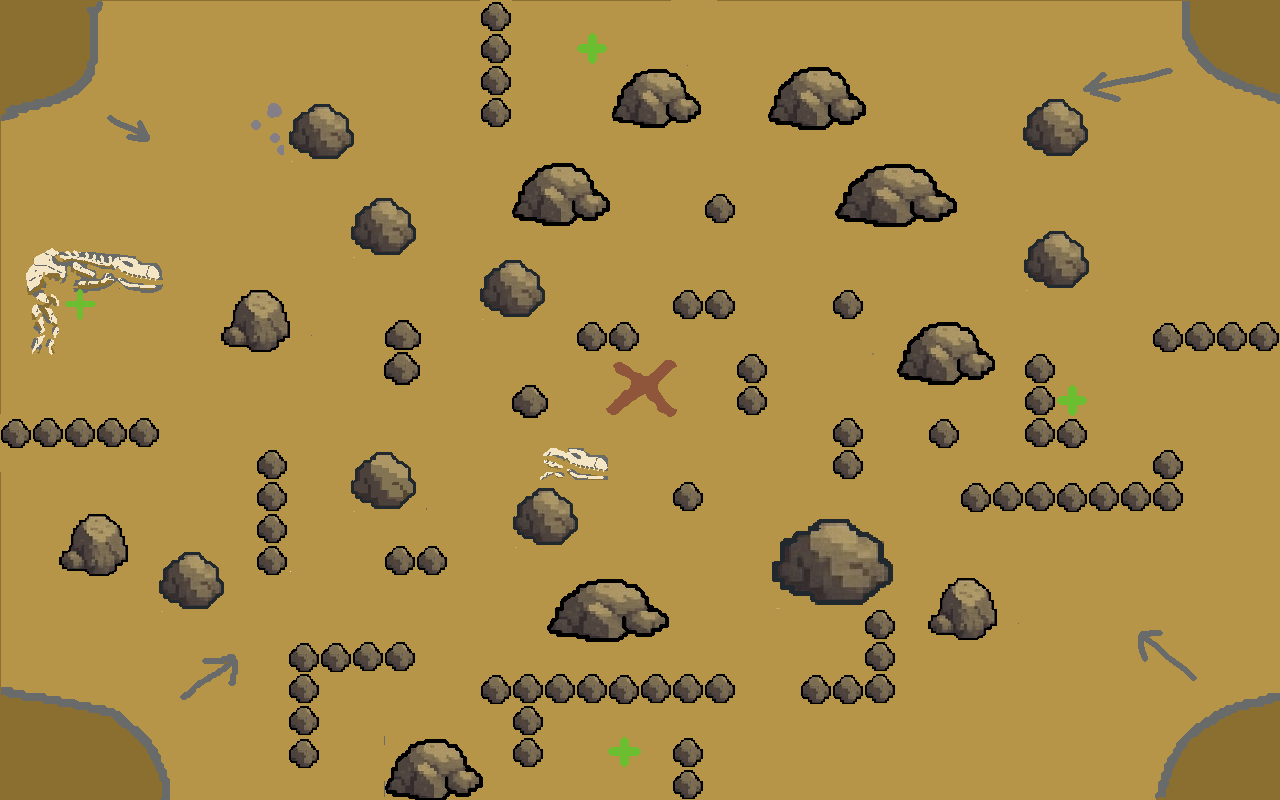
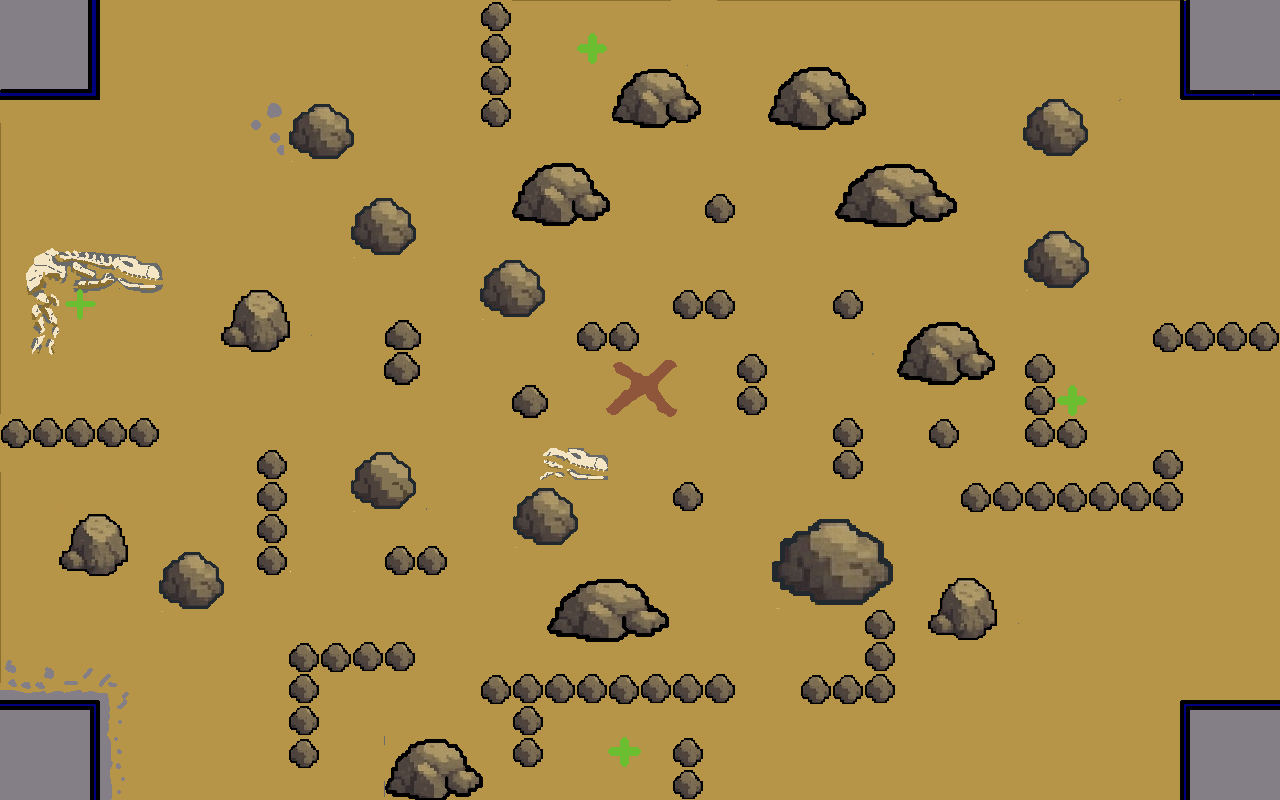
There can now be team and team vision

diff --git a/main.py b/main.py
@@ -11,6 +11,7 @@ pygame.init()
 screen = pygame.display.set_mode((1280, 800))
 clock = pygame.time.Clock()
 running = True
+in_menu = True
 dt = 0
 
 #Global Data
@@ -42,10 +43,10 @@ mage = pygame.image.load("asset/mage.png")
 default_player = pygame.image.load("asset/default_player.png")
 
 #INPUTS
-host = input("Enter host address: ")
+host = "127.0.0.1"
 port = 5000
-character_choice = input("[soldier], [mage], [alien]: ")
-team = int(input("Starting position 1-4"))
+character_choice = ""
+team = 0
 
 client = Client(host, port)
 
@@ -107,11 +108,25 @@ heal_zone = [
     pygame.rect.Rect(576, 32, 31, 31),
 ]
 
+start_zone = [
+    [pygame.rect.Rect(0, 0, 96, 96), 1],
+    [pygame.rect.Rect(1184, 0, 96, 96), 2],
+    [pygame.rect.Rect(1184, 704, 96, 96), 3],
+    [pygame.rect.Rect(0, 704, 96, 96), 4],
+]
+
+character_zone = [
+    [pygame.rect.Rect(544, 384, 32, 32), "soldier"],
+    [pygame.rect.Rect(608, 384, 32, 32), "mage"],
+    [pygame.rect.Rect(480, 384, 32, 32), "alien"],
+]
+
+teammate_data = {}
+
 map_system = MapSystem(1280, 800, obstacles)
 
 #Server init
-player = client.send(["initialize", character_choice, team])
-map_system.set_player_pos([player.rect.centerx, player.rect.centery])
+
 
 
 def handle_player(_player):
@@ -152,7 +167,58 @@ def adjust_vertical(_player, _obstacle_list):
                 break
 
 
+while in_menu:
+    for event in pygame.event.get():
+        if event.type == pygame.QUIT:
+            in_menu = False
+            running = False
+        if event.type == pygame.MOUSEBUTTONDOWN:
+            if event.button == 1:
+                for spawning_zone in start_zone:
+                    if spawning_zone[0].collidepoint(pygame.mouse.get_pos()):
+                        team = spawning_zone[1]
+                for character in character_zone:
+                    if character[0].collidepoint(pygame.mouse.get_pos()):
+                        character_choice = character[1]
+        if event.type == pygame.KEYDOWN:
+            if event.key == pygame.K_p:
+                in_menu = False
+
+    screen.blit(game_map, (0, 0))
+
+    for spawning_zone in start_zone:
+        if spawning_zone[1] == team:
+            pygame.draw.rect(screen, "green", spawning_zone[0], 2)
+        else:
+            pygame.draw.rect(screen, "blue", spawning_zone[0], 2)
+
+    for character in character_zone:
+        if character[1] == character_choice:
+            pygame.draw.rect(screen, "green", character[0], 2)
+        else:
+            pygame.draw.rect(screen, "blue", character[0], 2)
+        match character[1]:
+            case "soldier":
+                _image = soldier
+            case "mage":
+                _image = mage
+            case "alien":
+                _image = alien
+            case _:
+                _image = default_player
+        screen.blit(_image, (character[0].x, character[0].y))
+
+
+    pygame.display.flip()
+
+    dt = clock.tick(60) / 1000
+
+
+player = client.send(["initialize", character_choice, team])
+map_system.set_player_pos([player.rect.centerx, player.rect.centery])
+
 while running:
+
     if player.isDead:
         running = False
     # poll for events
@@ -189,8 +255,8 @@ while running:
     # This will return [_id, _id, _id]
     all_active_player = client.send(["all active player", player.id])
 
-    # This will return {"_id":[x, y], "_id":[x, y]}
-    all_player_location = client.send(["all location", [player.rect.x, player.rect.y]])
+    # This will return {"_id":[[x, y], team, vision], "_id":[[x, y], team, vision]}
+    all_player_location = client.send(["all location", [player.rect.x, player.rect.y], team, player.vision])
 
     # This will return {"_id": "character name"}
     all_player_character = client.send(["all player character", player.id])
@@ -201,10 +267,14 @@ while running:
     #This will return {"_id": [current_health, max_health]}
     all_player_health = client.send(["all player health", [player.current_health, player.max_health]])
 
+    #
+    for entity in all_active_player:
+        if entity in all_player_location and not entity == player.id:
+            if all_player_location[entity][1] == team:
+                teammate_data[entity] = [all_player_location[entity][0], all_player_location[entity][2]]
+
     # fill the screen with a color to wipe away anything from last frame
     screen.blit(game_map, (0, 0))
-
-    #return [id, position, name] of other players
 
     #Drawing all player
     #Note that the main player character will not be covered by fog
@@ -219,23 +289,23 @@ while running:
                     _image = alien
                 case _:
                     _image = default_player
-            screen.blit(_image, all_player_location[entity])
+            screen.blit(_image, all_player_location[entity][0])
 
     #Drawing all health bar
     for entity in all_active_player:
         if entity in all_player_location and entity in all_player_health:
-            max_hp_rect = pygame.rect.Rect(all_player_location[entity][0], all_player_location[entity][1] - 10, 32, 5)
+            max_hp_rect = pygame.rect.Rect(all_player_location[entity][0][0], all_player_location[entity][0][1] - 10, 32, 5)
             current_hp_bar = (all_player_health[entity][0] / all_player_health[entity][1]) * 32
-            current_hp_rect = pygame.rect.Rect(all_player_location[entity][0], all_player_location[entity][1] - 10, current_hp_bar, 5)
+            current_hp_rect = pygame.rect.Rect(all_player_location[entity][0][0], all_player_location[entity][0][1] - 10, current_hp_bar, 5)
             pygame.draw.rect(pygame.display.get_surface(), "black", max_hp_rect)
             pygame.draw.rect(pygame.display.get_surface(), "green", current_hp_rect)
 
     #Drawing all projectile
     total_damage = 0
     for entity in all_active_player:
-        if entity in all_player_projectile:
+        if entity in all_player_projectile and entity in all_player_location:
             for _proj in all_player_projectile[entity][0]:
-                if _proj.colliderect(player.rect) and not entity == player.id:
+                if _proj.colliderect(player.rect) and not entity == player.id and not all_player_location[1] == team:
                     total_damage += all_player_projectile[entity][1]
                 pygame.draw.rect(screen, "red", _proj, 1)
     player.take_damage(total_damage)
@@ -250,7 +320,7 @@ while running:
 
     player.handle_projectile(obstacles, dt)
 
-    map_system.handle_fog(map_system.getEntityNode(player), player.vision, [player.rect.centerx, player.rect.centery])
+    map_system.handle_fog(map_system.getEntityNode(player), player.vision, teammate_data)
 
     #Test Draw
     for _node in heal_zone:

diff --git a/player.py b/player.py
@@ -1,10 +1,18 @@
 import pygame
 import math
-
-from pygame.transform import rotate
-
 import projectile
+import ability
 
+def rotate_point(point, center_point, angle):
+
+    angle_rad = math.radians(angle % 360)
+    # Shift the point so that center_point becomes the origin
+    new_point = (point[0] - center_point[0], point[1] - center_point[1])
+    new_point = (new_point[0] * math.cos(angle_rad) - new_point[1] * math.sin(angle_rad),
+                 new_point[0] * math.sin(angle_rad) + new_point[1] * math.cos(angle_rad))
+    # Reverse the shifting we have done
+    new_point = (new_point[0] + center_point[0], new_point[1] + center_point[1])
+    return new_point
 
 class Player:
 
@@ -106,7 +114,7 @@ class Soldier(Player):
         self.speed = 125
         self.vision = 300
         self.max_health = 550
-        self.current_health = 200
+        self.current_health = 550
         self.projectile_speed = 600
         self.damage = 40
 
@@ -168,19 +176,6 @@ class Alien(Player):
             _projectile.update(dt)
             if _projectile.kill:
                 self.projectile.remove(_projectile)
-
-
-def rotate_point(point, center_point, angle):
-
-    angle_rad = math.radians(angle % 360)
-    # Shift the point so that center_point becomes the origin
-    new_point = (point[0] - center_point[0], point[1] - center_point[1])
-    new_point = (new_point[0] * math.cos(angle_rad) - new_point[1] * math.sin(angle_rad),
-                 new_point[0] * math.sin(angle_rad) + new_point[1] * math.cos(angle_rad))
-    # Reverse the shifting we have done
-    new_point = (new_point[0] + center_point[0], new_point[1] + center_point[1])
-    return new_point
-
 
 class Mage(Player):
     def __init__(self, _id, location):

diff --git a/mapSystem.py b/mapSystem.py
@@ -72,13 +72,12 @@ class MapSystem:
             pass
         return adj_node
 
-    def handle_fog(self, origin_node, vision, player_pos):
-        dist = math.hypot(player_pos[0] - self.previous_player_pos[0], player_pos[1] - self.previous_player_pos[1])
-        if dist >= self.fog_update_distance:
-            self.previous_player_pos = player_pos
-            for _node in self.discovered_nodes:
-                _node.discovered = 0
+    def handle_fog(self, origin_node, vision, teammate):
+        for _node in self.discovered_nodes:
+            _node.discovered = 0
         self._handle_fog(origin_node, vision, origin_node)
+        for member in teammate:
+            self._handle_fog(self.getNodeFromPos(teammate[member][0][0], teammate[member][0][1]), member[1], self.getNodeFromPos(teammate[member][0][0], teammate[member][0][1]))
 
     def _handle_fog(self, node, vision, originNode):
         dist = math.hypot(node.rect.centerx - originNode.rect.centerx, node.rect.centery - originNode.rect.centery)
@@ -101,6 +100,13 @@ class MapSystem:
     def getEntityNode(self, _entity):
         x = _entity.rect.x / self.sizeX
         y = _entity.rect.y / self.sizeY
+        x *= self.nodeX
+        y *= self.nodeY
+        return self.nodes[round(y)][round(x)]
+
+    def getNodeFromPos(self, pos_x, pos_y):
+        x = pos_x / self.sizeX
+        y = pos_y / self.sizeY
         x *= self.nodeX
         y *= self.nodeY
         return self.nodes[round(y)][round(x)]

diff --git a/server.py b/server.py
@@ -87,7 +87,7 @@ def process_data(data, _id):
                     player = Player(_id, location)
             return player
         case "all location":
-            all_player_location[_id] = data[1]
+            all_player_location[_id] = [data[1], data[2], data[3]]
             return all_player_location
         case _:
             return data

diff --git a/ability.py b/ability.py
@@ -1,0 +1,8 @@
+import pygame
+
+class Ability:
+
+    def __init__(self, x, y, size):
+        self.size = size
+        self.rect = pygame.rect.Rect(0, 0, self.size, self.size)
+        self.rect.center = (x, y)
